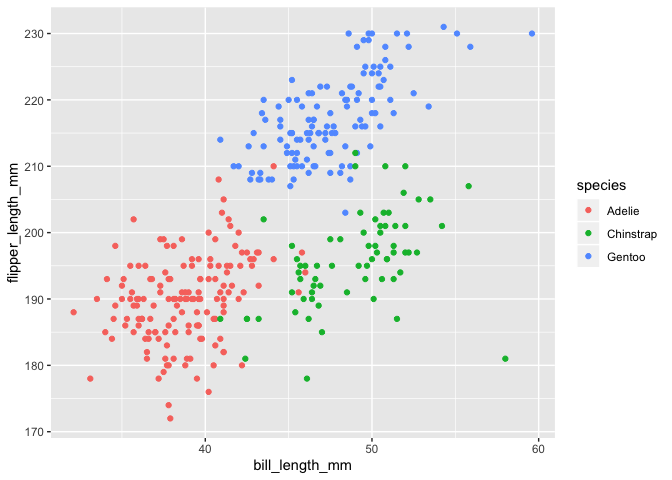
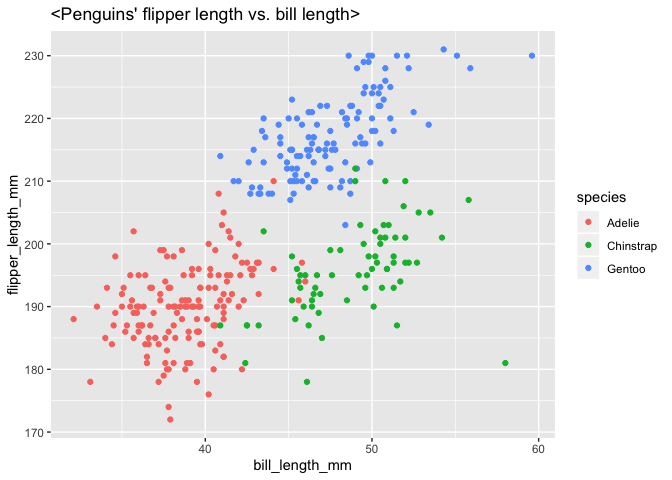
2_Complete_HW 1

diff --git a/p8105_hw1_sp3804.md b/p8105_hw1_sp3804.md
@@ -28,13 +28,13 @@ prob1_df =
 mean(pull(prob1_df, samp))
 ```
 
-    ## [1] -0.3904049
+    ## [1] -0.7554607
 
 ``` r
 mean(pull(prob1_df, samp_gt_0)) #mean = 0.6 (?)
 ```
 
-    ## [1] 0.3
+    ## [1] 0.2
 
 ``` r
 mean(pull(prob1_df, char_vec)) #not possible (x numeric)
@@ -68,14 +68,14 @@ mean(pull(prob1_df, factor_vec)) #not possible (x numeric)
 as.numeric(pull(prob1_df, samp))
 ```
 
-    ##  [1]  1.7361644 -0.3812530 -0.6505647  0.6161206 -0.8771909 -1.0669946
-    ##  [7] -1.1130465 -1.2868580  0.1308620 -1.0112886
+    ##  [1] -0.89101035 -1.90877498 -0.49079203 -0.74709600 -0.03207255  0.24389146
+    ##  [7] -1.84502379 -1.49531739 -1.07667693  0.68826564
 
 ``` r
 as.numeric(pull(prob1_df, samp_gt_0)) 
 ```
 
-    ##  [1] 1 0 0 1 0 0 0 0 1 0
+    ##  [1] 0 0 0 0 0 1 0 0 0 1
 
 ``` r
 as.numeric(pull(prob1_df, char_vec)) 
@@ -96,8 +96,8 @@ as.numeric(pull(prob1_df, factor_vec))
 as.numeric(pull(prob1_df, samp_gt_0))*pull(prob1_df,samp) 
 ```
 
-    ##  [1] 1.7361644 0.0000000 0.0000000 0.6161206 0.0000000 0.0000000 0.0000000
-    ##  [8] 0.0000000 0.1308620 0.0000000
+    ##  [1] 0.0000000 0.0000000 0.0000000 0.0000000 0.0000000 0.2438915 0.0000000
+    ##  [8] 0.0000000 0.0000000 0.6882656
 
 ``` r
 #2
@@ -114,8 +114,8 @@ as.factor(pull(prob1_df, samp_gt_0))*pull(prob1_df,samp)
 as.numeric(as.factor(pull(prob1_df, samp_gt_0)))*pull(prob1_df,samp)
 ```
 
-    ##  [1]  3.4723288 -0.3812530 -0.6505647  1.2322412 -0.8771909 -1.0669946
-    ##  [7] -1.1130465 -1.2868580  0.2617241 -1.0112886
+    ##  [1] -0.89101035 -1.90877498 -0.49079203 -0.74709600 -0.03207255  0.48778291
+    ##  [7] -1.84502379 -1.49531739 -1.07667693  1.37653128
 
 ## Problem 2
 
@@ -178,7 +178,7 @@ mean(pull(penguins, flipper_length_mm), na.rm=TRUE)
 ``` r
 #scatterplot
 
-ggplot(penguins, aes(x=bill_length_mm, y=flipper_length_mm, color=species))+geom_point()
+ggplot(penguins, aes(x=bill_length_mm, y=flipper_length_mm, color=species))+geom_point()+ggtitle("<Penguins' flipper length vs. bill length>")
 ```
 
     ## Warning: Removed 2 rows containing missing values (geom_point).
